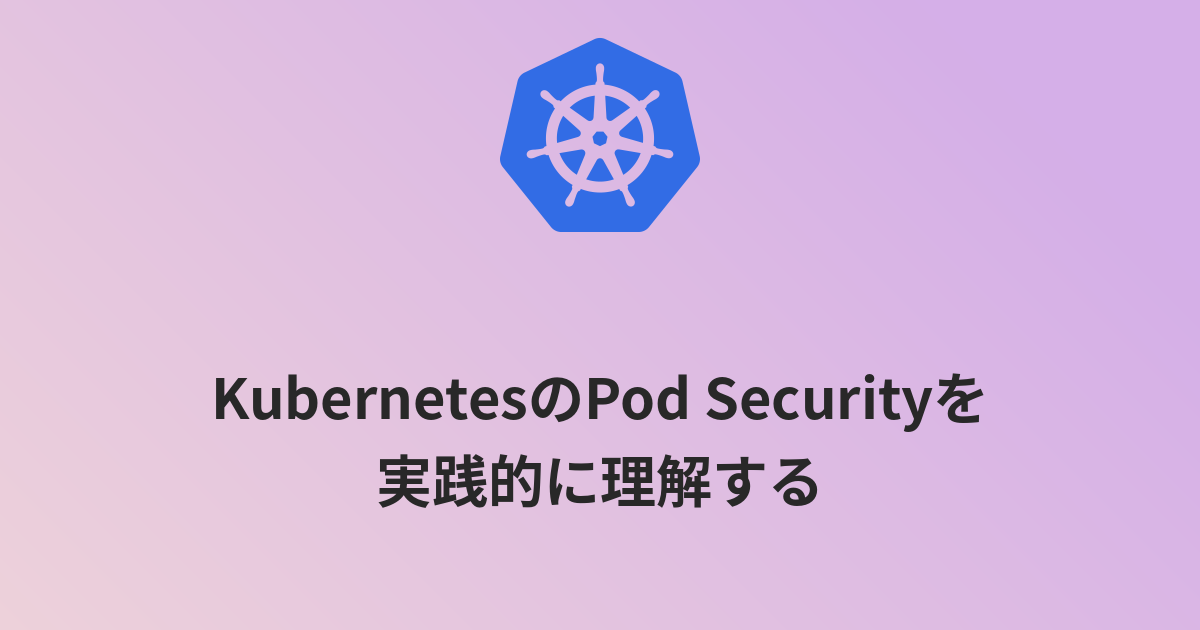
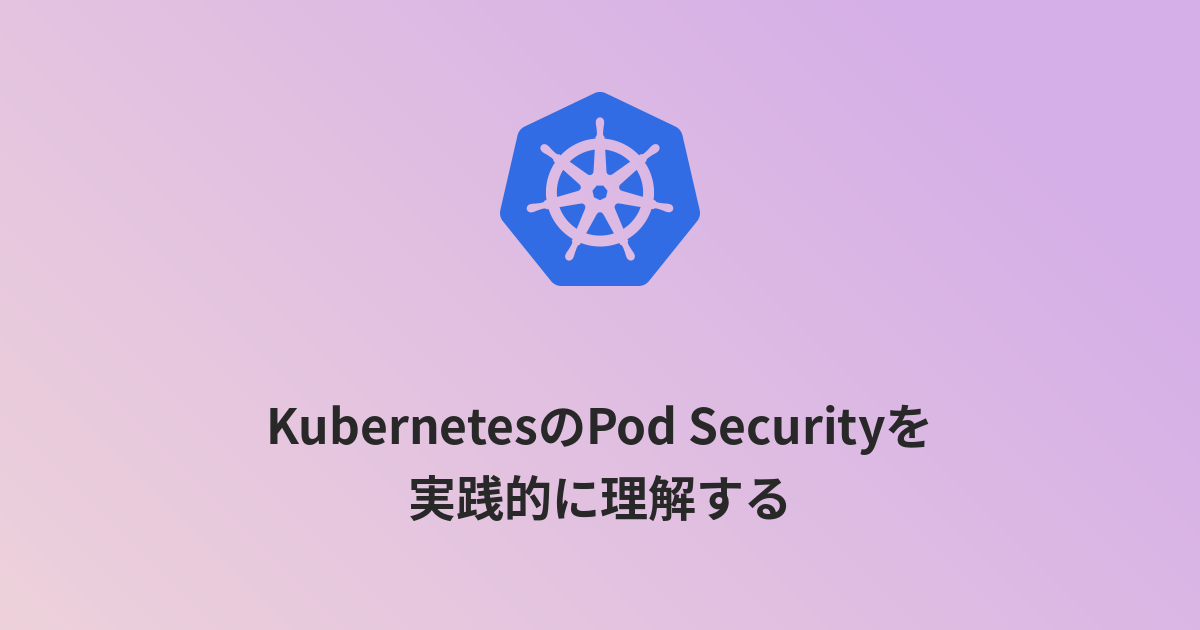
fix: フォントサイズ・テキスト幅・アイコン位置を再調整
- フォントサイズ 56→48px（参考画像に合わせて縮小）
- テキスト最大幅 65%→72%（折り返しが自然になるよう調整）
- アイコン中心を画像高さ30%に配置
- テキスト領域を55%-92%に調整
- \n指定行も幅超過時に自動折り返し

https://claude.ai/code/session_016DdcbbrJtn7pfJYCpFrhUf

Changed region(s): [[0.1542, 0.6032, 0.8325, 0.8444], [0.4008, 0.0603, 0.5858, 0.4524]]

diff --git a/poc/gradient_eyecatch.py b/poc/gradient_eyecatch.py
@@ -64,7 +64,7 @@ DEFAULT_FONT_CACHE = Path.home() / ".cache" / "eyecatch-fonts"
 IMAGE_WIDTH = 1200
 IMAGE_HEIGHT = 630
 ICON_SIZE = 200
-DEFAULT_FONT_SIZE = 56
+DEFAULT_FONT_SIZE = 48
 
 
 def hex_to_rgb(hex_color: str) -> tuple[int, int, int]:
@@ -232,17 +232,21 @@ def draw_title(
     draw = ImageDraw.Draw(img)
     font = ImageFont.truetype(str(font_path), font_size)
     width, height = img.size
-    max_text_width = int(width * 0.65)
+    max_text_width = int(width * 0.72)
 
-    # テキスト折り返し（\n対応）
+    # テキスト折り返し（\n対応、幅超過時は自動折り返し）
     if "\n" in title:
         lines = []
         for seg in title.split("\n"):
             seg = seg.strip()
-            if seg:
+            if not seg:
+                continue
+            bb = font.getbbox(seg)
+            if bb[2] - bb[0] <= max_text_width:
                 lines.append(seg)
+            else:
+                lines.extend(_simple_wrap(seg, font, max_text_width))
     else:
-        # 簡易折り返し
         lines = _simple_wrap(title, font, max_text_width)
 
     # 描画位置の計算
@@ -254,9 +258,9 @@ def draw_title(
     line_spacing = int(font_size * 0.4)
     total_text_height = sum(line_heights) + line_spacing * (len(lines) - 1)
 
-    # テキストは画像下半分(45%〜95%)の中央に配置
-    text_area_top = height * 0.45
-    text_area_bottom = height * 0.95
+    # テキストは画像の55%〜92%の領域に中央配置
+    text_area_top = height * 0.55
+    text_area_bottom = height * 0.92
     y = int(text_area_top + (text_area_bottom - text_area_top - total_text_height) / 2)
 
     for i, line in enumerate(lines):
@@ -318,9 +322,9 @@ def generate_eyecatch(
     render_color = icon_color or brand_hex
     icon_img = svg_to_png(svg_data, ICON_SIZE, ICON_SIZE, color=render_color)
 
-    # アイコンを上1/3の中央に配置
+    # アイコンの中心を画像高さの30%に配置
     icon_x = (IMAGE_WIDTH - ICON_SIZE) // 2
-    icon_y = int(IMAGE_HEIGHT * 0.33 / 2 - ICON_SIZE / 2 + IMAGE_HEIGHT * 0.05)
+    icon_y = int(IMAGE_HEIGHT * 0.30 - ICON_SIZE / 2)
     img.paste(icon_img, (icon_x, icon_y), icon_img)
 
     # 5. タイトルテキストの描画
